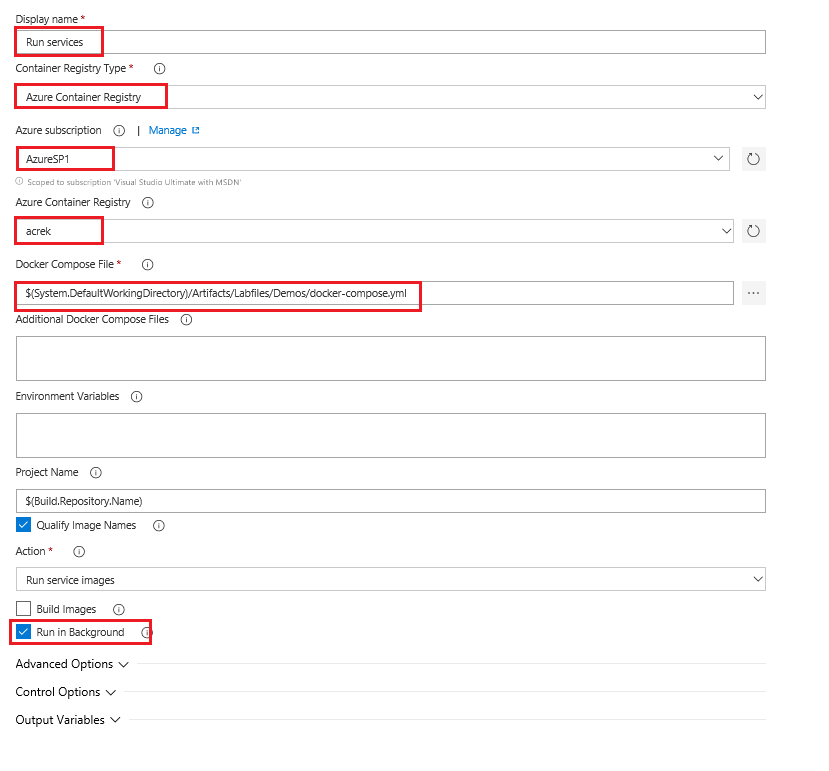
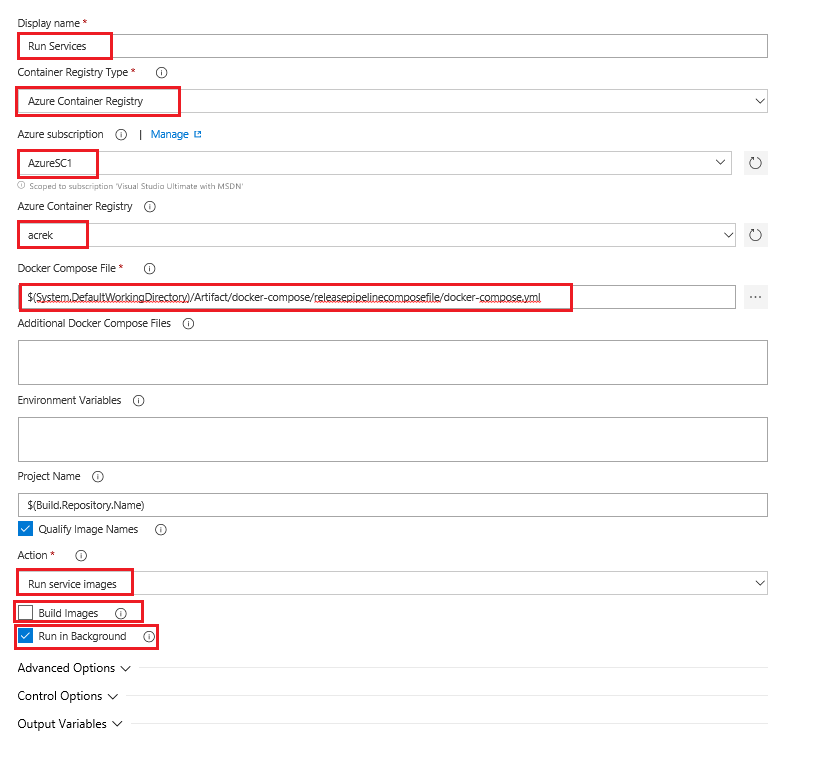
updated container CD lab steps and images

diff --git a/_posts/2018-01-08-200.4x-ConfigMgmt-CDwithWindowsContainersandVSTS.md b/_posts/2018-01-08-200.4x-ConfigMgmt-CDwithWindowsContainersandVSTS.md
@@ -576,7 +576,7 @@ Now we will create a release pipeline to deploy our newly built application
     - **Container Registry Type**: Azure Container Registry
     - **Azure Subscription**: < Your Azure Subscription >
     - **Azure Container Registry**: <> the name of your Azure Container Registry >
-    - **Docker-compose Files**: click the ellipsis button at the end of the box and in the artifacts point to $(System.DefaultWorkingDirectory)/Artifact/docker-compose/releasepipelinecomposefile/docker-compose.yml. This is a different compose file to that generated by visaual studio earlier. It is one we created ourselves, specifically to run the image as we want on our build agent. You can view the file <a href="https://github.com/Microsoft/PartsUnlimited/blob/master/Labfiles/Devops200.4x-ConfigMgmtForContainerizedDelivery/M01/Labs/releasepipelinecomposefile/docker-compose.yml" target="_blank"><span style="color: #0066cc;" color="#0066cc">here</span></a>.
+    - **Docker-compose Files**: click the ellipsis button at the end of the box and in the artifacts point to the build artifact docker-compose/releasepipelinecomposefile/docker-compose.yml. This is a different docker compose file to that generated by visual studio earlier. It is one we created ourselves, specifically to run the image as we want on our build agent. You can view the file <a href="https://github.com/Microsoft/PartsUnlimited/blob/master/Labfiles/Devops200.4x-ConfigMgmtForContainerizedDelivery/M01/Labs/releasepipelinecomposefile/docker-compose.yml" target="_blank"><span style="color: #0066cc;" color="#0066cc">here</span></a>.
     - **Action**: Run service Images
     - **Build Images**: Uncheck the checkbox
     - **Run in background**: Check the checkbox
